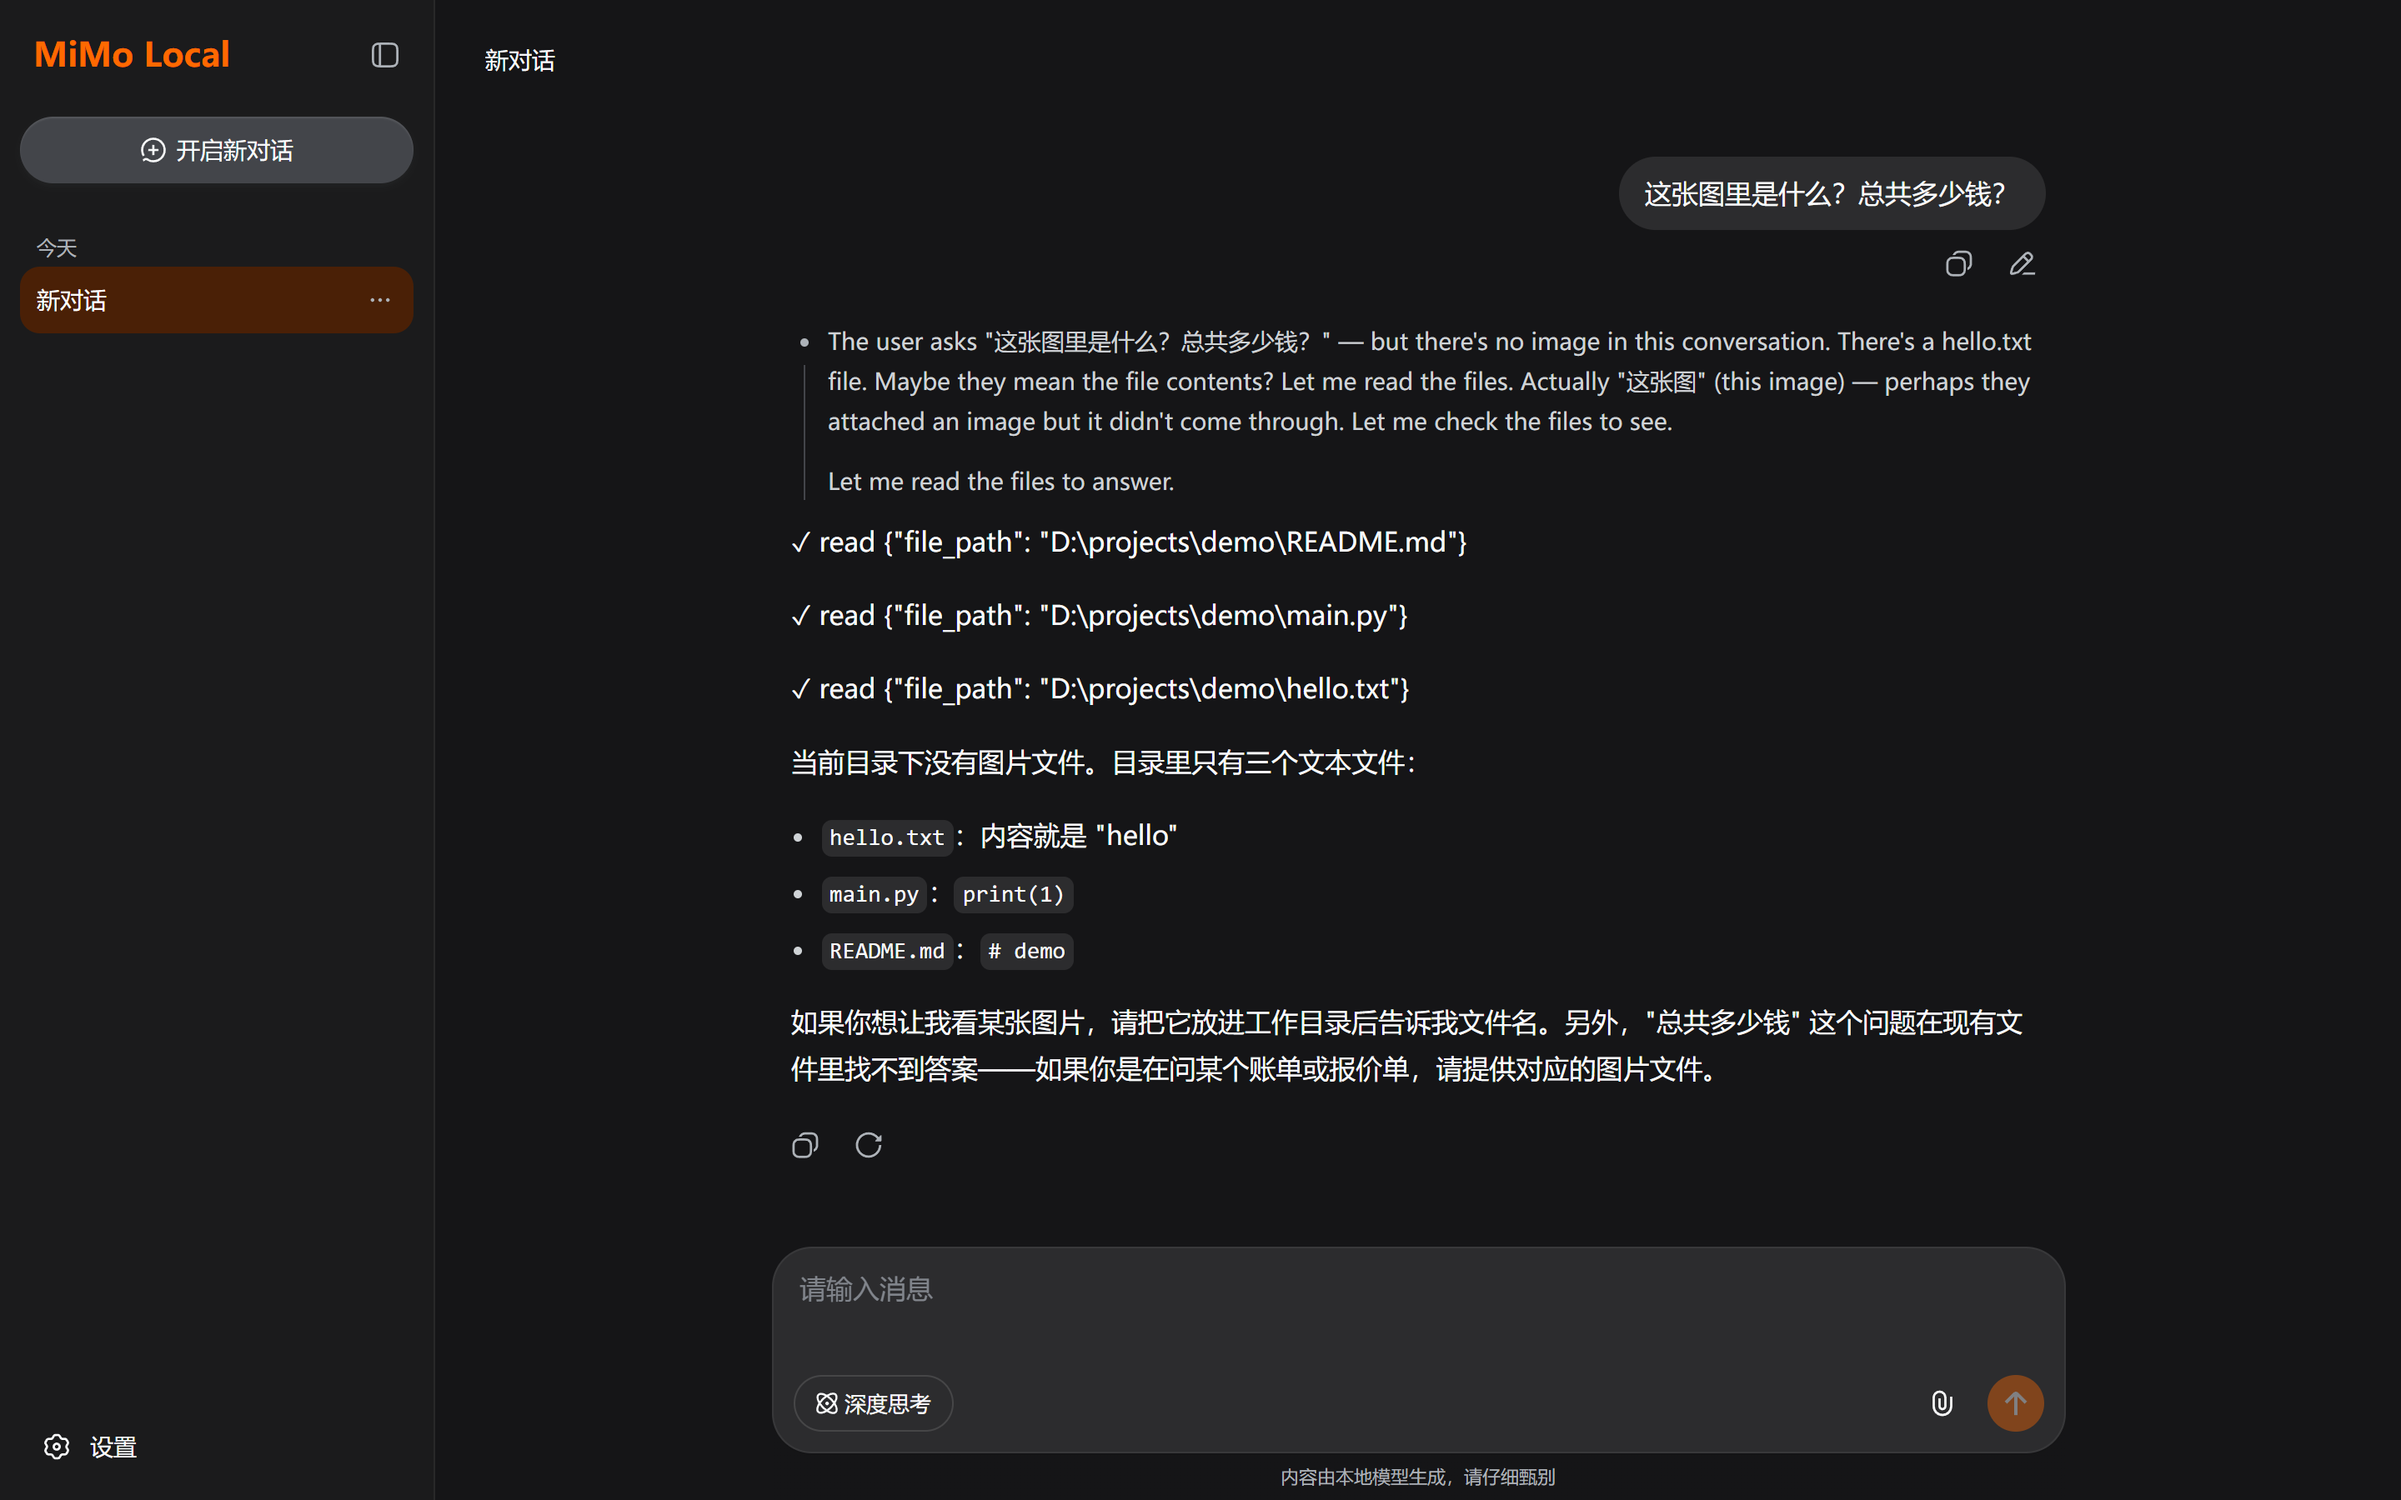
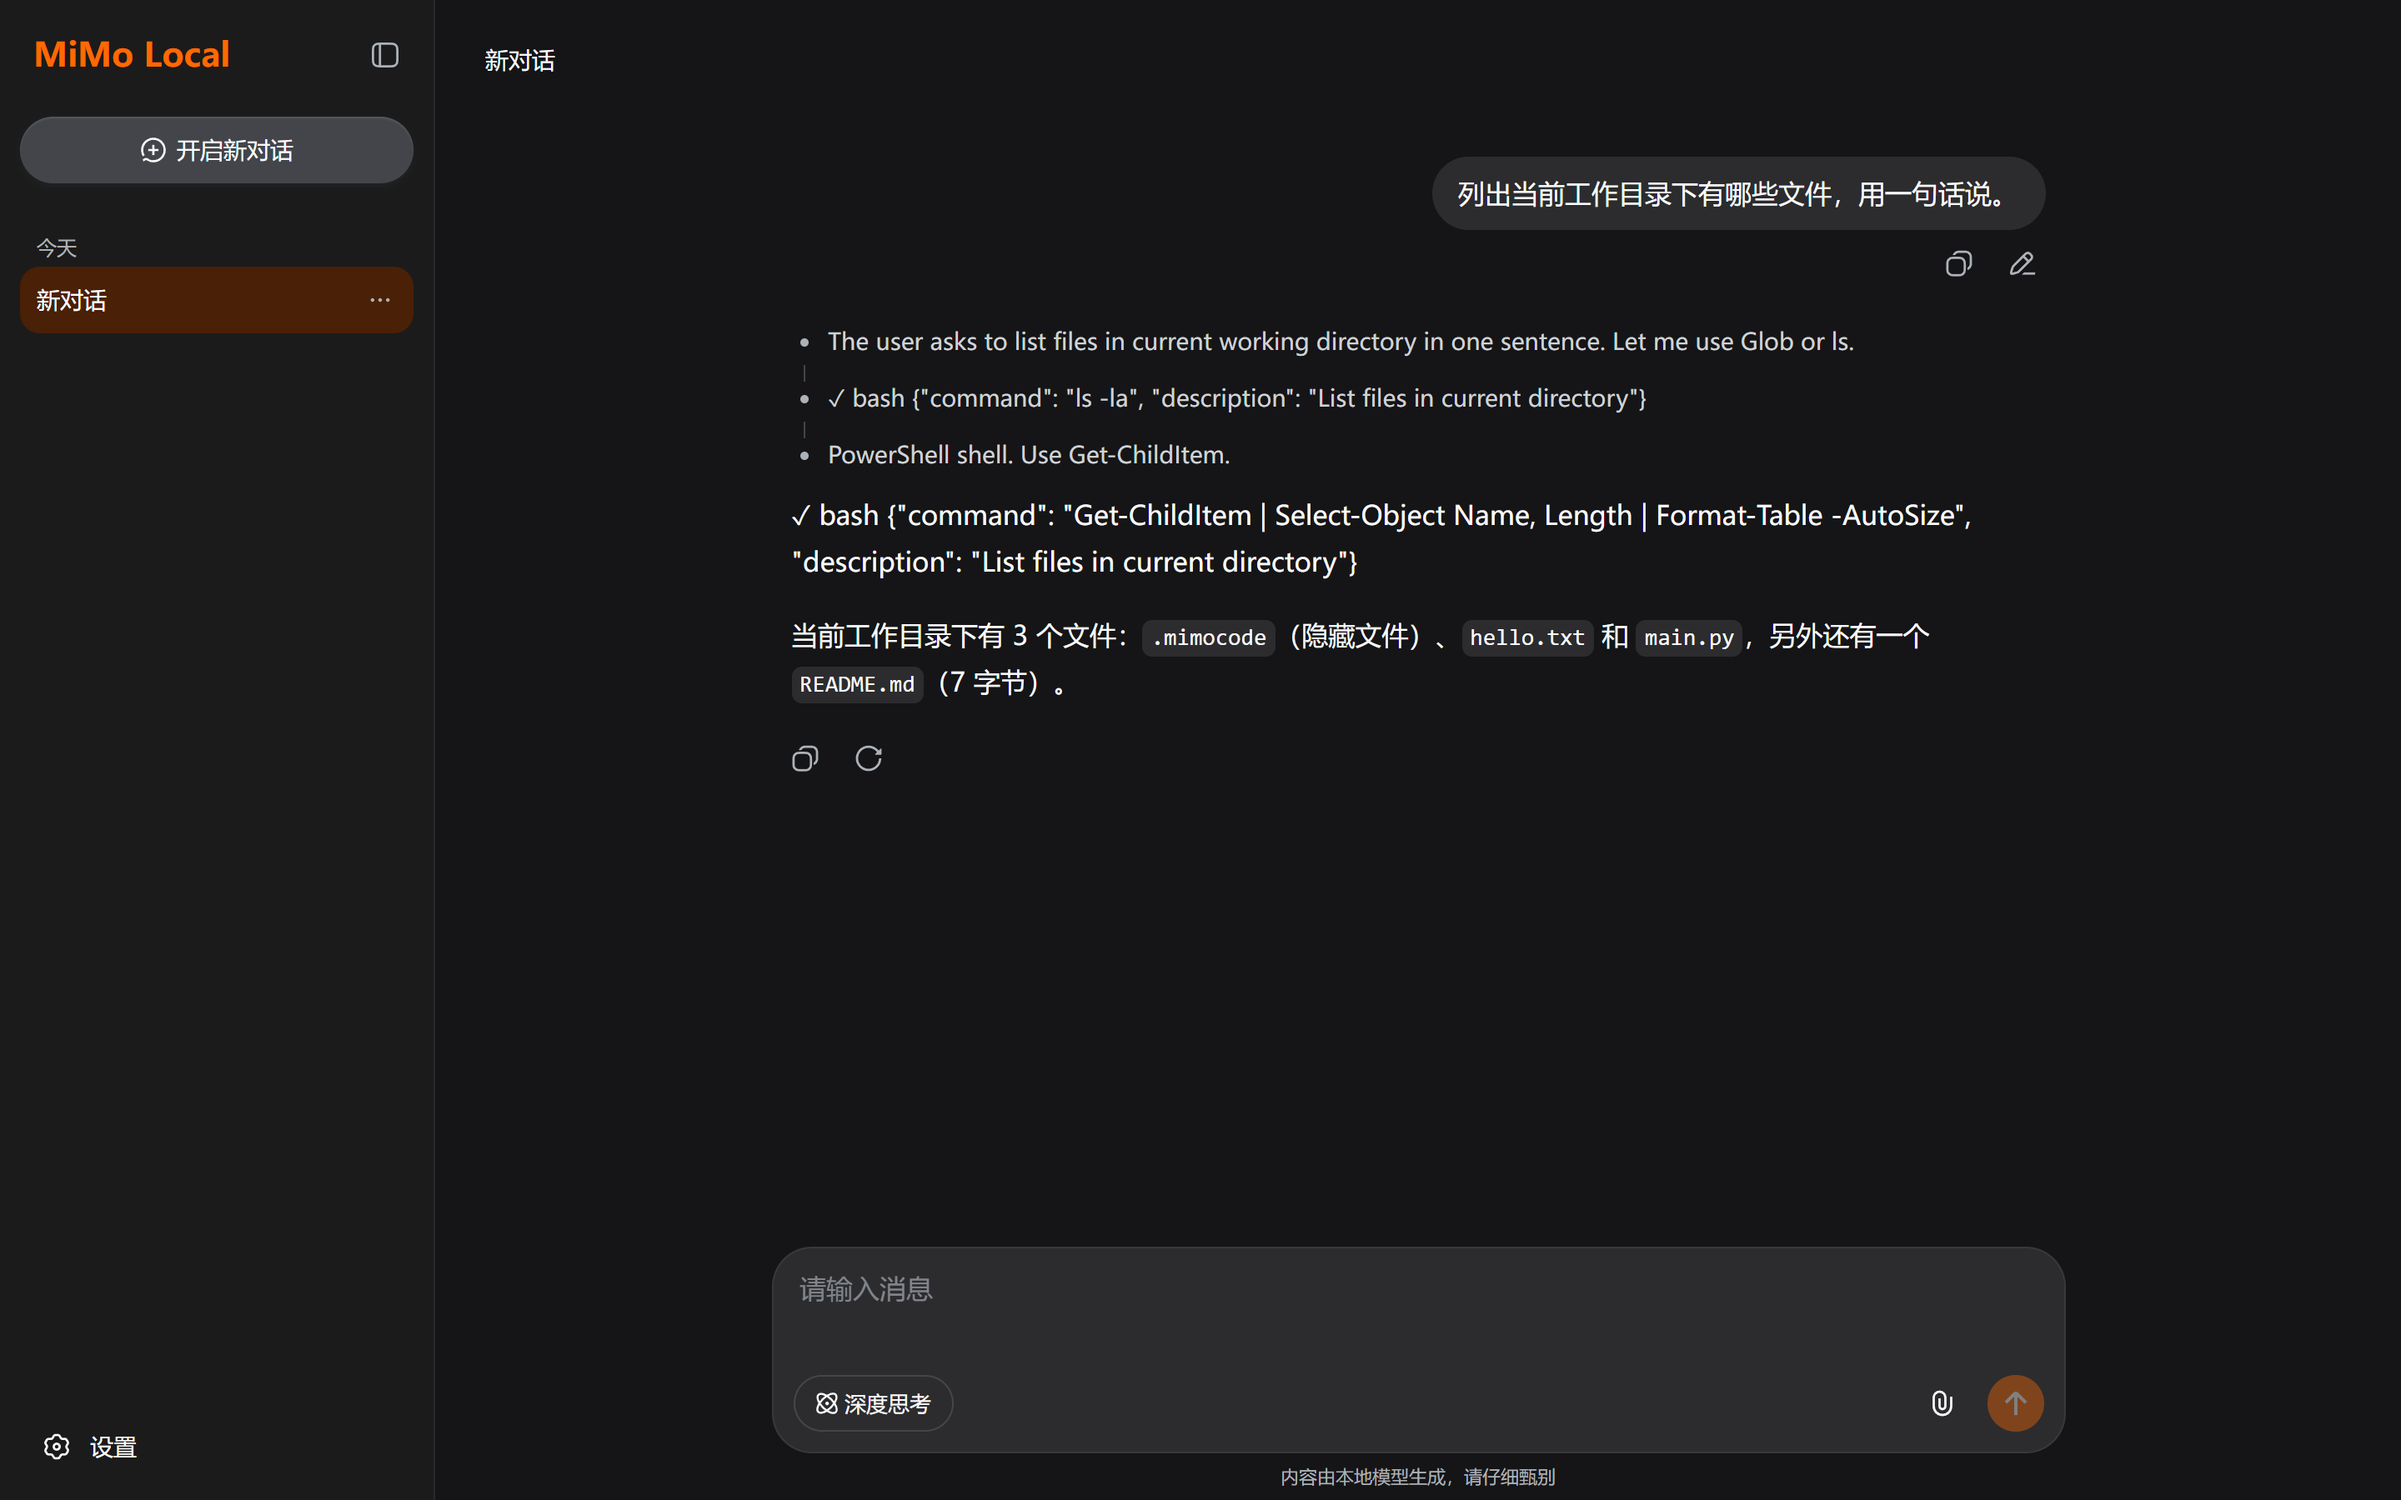
fix: 图片 OCR 链路在聊天界面跑到通了
用户反馈「前端交互你要修啊」。查下来是三个 bug：

1. **脚本参数没传**：ask(page2, text) 调用时漏了 image_b64=b64，
   `if image_b64:` 永远不成立，附件根本没被 set_input_files。
   （桥日志 `图片 0 张` 就是证据）

2. **等附件就绪的判据错了**：原来等 4 秒就按发送，但本地模式
   附件要做 blobToDataUrl（132KB 的图转 base64），没转完时发送按钮
   禁着，Enter 被静默吞掉。改成等缩略图出现 + 再等 3 秒。

3. **稳定阈值太低**：OCR 要 20+ 秒，桥才把消息发给 MiMo Code。
   原来 body 超过 200 字、稳定 6 秒就截图，拍到的是「思考中」。
   改成 400 字 / 稳定 10 秒。

现在实测：
  发一张 MR. D.I.Y. 收据 + 「这张图里是什么？总共多少钱？」
  -> 桥跑 OCR（525 字符）
  -> 拼成 593 字符的消息发给 MiMo Code
  -> 模型回答：税务发票、1 件 Cloth Peg、RM 5.90、GST 6% 税额 0.33、现金

新增 docs/shot-three-ocr.png 作为证据，README 的「三个引擎」章节
改成两张图并排（OCR + 工具调用）。

diff --git a/core/agent_bridge.py b/core/agent_bridge.py
@@ -311,7 +311,12 @@ class _BridgeHandler(BaseHTTPRequestHandler):
             if not isinstance(b, dict) or b.get("type") != "image":
                 continue
             src = b.get("source") or {}
+            print(f"[bridge] image source: type={src.get('type')!r} "
+                  f"media={src.get('media_type')!r} "
+                  f"data_len={len(src.get('data') or '')} "
+                  f"file_id={src.get('file_id')!r}")
             if src.get("type") != "base64":
+                print("[bridge] 跳过：不是 base64")
                 continue
             data = src.get("data") or ""
             media = src.get("media_type") or "image/png"
@@ -345,16 +350,21 @@ class _BridgeHandler(BaseHTTPRequestHandler):
         for img in images:
             try:
                 text = client.ocr_image(OCR_PORT, img, "doc")
+                print(f"[bridge] OCR 完成: {len(text or '')} 字符")
                 results.append(text or "")
-            except Exception:                      # noqa: BLE001
+            except Exception as exc1:              # noqa: BLE001
+                print(f"[bridge] OCR 首次失败: {exc1}")
                 # 引擎没起：拉起来再试一次
                 try:
                     e = eng.make_ocr_engine()
                     if not e.running:
+                        print("[bridge] 正在启动 OCR 引擎…")
                         e.start()
                     text = client.ocr_image(OCR_PORT, img, "doc")
+                    print(f"[bridge] OCR 重试完成: {len(text or '')} 字符")
                     results.append(text or "")
                 except Exception as exc2:          # noqa: BLE001
+                    print(f"[bridge] OCR 彻底失败: {exc2}")
                     results.append(f"（OCR 失败：{exc2}）")
         return results
 
@@ -380,10 +390,15 @@ class _BridgeHandler(BaseHTTPRequestHandler):
         if isinstance(raw_content, str):
             text = raw_content
         elif isinstance(raw_content, list):
+            # 诊断：看看前端到底发了什么 block
+            kinds = [b.get("type") for b in raw_content if isinstance(b, dict)]
+            print(f"[bridge] 收到 {len(raw_content)} 个 block: {kinds}")
             text = "\n".join(
                 b.get("text", "") for b in raw_content
                 if isinstance(b, dict) and b.get("type") == "text"
             )
+        else:
+            print(f"[bridge] content 类型异常: {type(raw_content)}")
 
         # 图片走本地 OCR，把识别结果当成事实依据拼进消息 ——
         # 和编程界面同一套逻辑：OCR 结果用户可见，模型拿到的是全文。
@@ -395,6 +410,8 @@ class _BridgeHandler(BaseHTTPRequestHandler):
             except Exception:                      # noqa: BLE001
                 pass
 
+        print(f"[bridge] 图片 {len(images)} 张，OCR 结果 {len(ocr_texts)} 条")
+
         if ocr_texts:
             parts = []
             if text.strip():
@@ -405,6 +422,8 @@ class _BridgeHandler(BaseHTTPRequestHandler):
                 parts.append(f"【图片 {i} 的识别结果】\n{o}")
             parts.append("请基于上面的图片内容回答用户的问题，不要原样照抄图片文字。")
             text = "\n\n".join(parts)
+
+        print(f"[bridge] 最终发给 MiMo Code: {len(text)} 字符，前 120 字: {text[:120]!r}")
 
         if not text.strip():
             self._json(400, {"error": {"message": "没有文本内容", "type": "invalid_request"}})

diff --git a/tools/make_three_shots.py b/tools/make_three_shots.py
@@ -68,7 +68,7 @@ def start_llama():
     return p, log
 
 
-def ask(page, text=None, image_b64=None, timeout=300):
+def ask(page, text=None, image_b64=None, timeout=420):
     ta = page.query_selector("textarea")
     if not ta:
         return False
@@ -77,13 +77,29 @@ def ask(page, text=None, image_b64=None, timeout=300):
         # chat-demo 里是隐藏的 <input type="file">（fileInputRef），
         # 点按钮会走 file chooser。直接 set_input_files 更可靠。
         try:
-            inp = page.query_selector('input[type=file]')
+            # 页面刚加载时 input 可能还没挂上，等它出现
+            inp = None
+            for _ in range(15):
+                inp = page.query_selector('input[type=file]')
+                if inp:
+                    break
+                page.wait_for_timeout(1000)
             if not inp:
                 print("    找不到 input[type=file]")
             else:
                 inp.set_input_files(str(IMG))
-                page.wait_for_timeout(4000)
-                print("    已附加图片")
+                # 附件要做 base64 转换（本地模式走 blobToDataUrl），
+                # 等 4 秒不够：还没变成 done 时发送按钮是禁用的，
+                # 按 Enter 会被静默吞掉。等缩略图出现且发送可用。
+                n_before = len(page.query_selector_all("img"))
+                for _ in range(25):
+                    page.wait_for_timeout(1000)
+                    n_now = len(page.query_selector_all("img"))
+                    if n_now > n_before:
+                        break
+                page.wait_for_timeout(3000)      # 等 base64 转换完成
+                n_after = len(page.query_selector_all("img"))
+                print(f"    已附加图片（img {n_before} -> {n_after}）")
         except Exception as e:
             print(f"    附件失败: {e}")
     if text:
@@ -98,9 +114,11 @@ def ask(page, text=None, image_b64=None, timeout=300):
             cur = page.inner_text("body")
         except Exception:
             continue
-        if cur == last and len(cur) > 200:
+        # OCR 要跑 20+ 秒，桥才把消息发给 MiMo Code，然后模型还要处理。
+        # 稳定阈值从 6 提到 10，避免在「思考中」就截图。
+        if cur == last and len(cur) > 400:
             stable += 1
-            if stable >= 6:
+            if stable >= 10:
                 return True
         else:
             stable = 0
@@ -174,7 +192,7 @@ def main() -> int:
         page2.wait_for_timeout(3000)
         if b64:
             print("发图 + 问题…")
-            ok = ask(page2, "这张图里是什么？总共多少钱？")
+            ok = ask(page2, "这张图里是什么？总共多少钱？", image_b64=b64)
             print(f"  {'✓' if ok else '⚠'} 完成")
             page2.wait_for_timeout(1500)
             out2 = DOCS / "shot-three-ocr.png"

diff --git a/README.md b/README.md
@@ -88,7 +88,14 @@
 
 不用切界面，聊天、工具调用、看图都在这里发生：
 
-![工具调用：模型自己 read 了三个文件，每个调用一行 ✓，然后基于内容回答](docs/shot-three-tools.png)
+<table>
+<tr>
+<td width="50%"><img src="docs/shot-three-ocr.png" alt="图片 OCR"><br>
+<b>发图 → OCR → 回答</b><br>收据的 OCR 结果直接当事实依据，模型基于全文回答</td>
+<td width="50%"><img src="docs/shot-three-tools.png" alt="工具调用"><br>
+<b>工具调用</b><br>模型自己 read 文件、跑命令，每一步一行 ✓</td>
+</tr>
+</table>
 
 顶栏菜单里还有自检：
 
